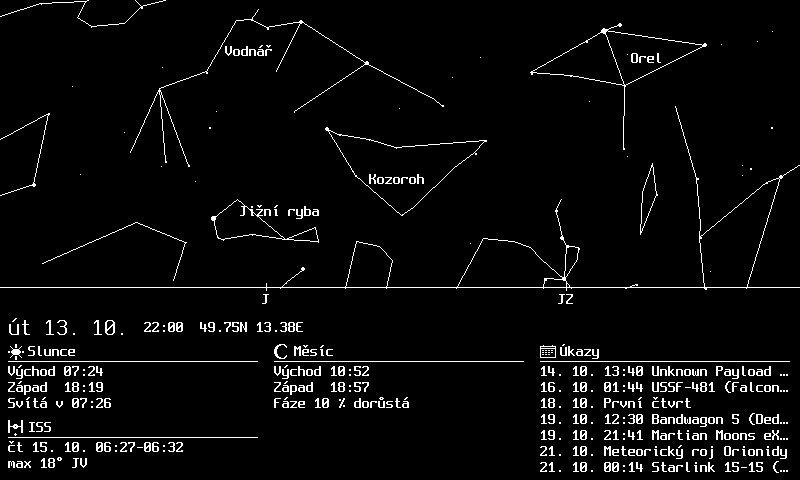
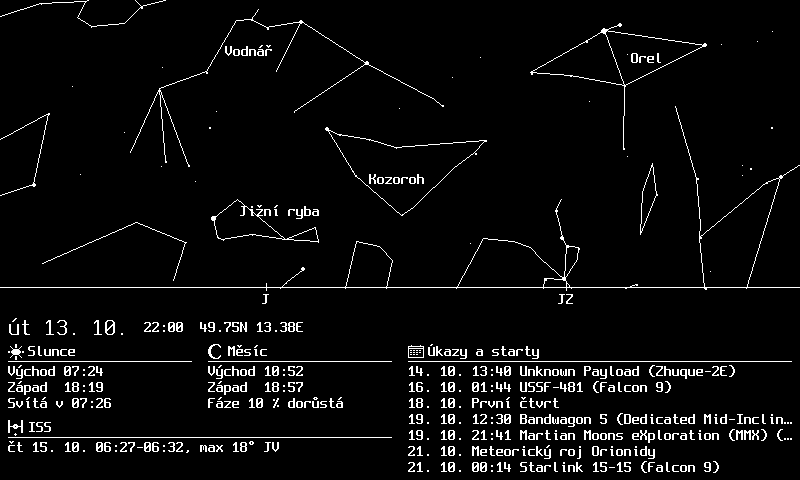
feat(layout): landscape horizon columns 25/25/50, ISS spans two columns, contextual events title

diff --git a/sky/layout.py b/sky/layout.py
@@ -23,7 +23,7 @@ LINE_HEADER_H = 24 + MARGIN                  # jednořádková hlavička (datum 
 def column_groups(n: int) -> tuple[tuple[str, ...], ...]:
     """Které sekce patří do kterého sloupce (sdílí layout i render)."""
     if n >= 3:
-        return (("sun", "iss"), ("moon",), ("events",))
+        return (("sun",), ("moon",), ("events",))      # ISS jde do pásu přes 1. + 2. sloupec
     if n == 2:
         return (("sun", "moon"), ("iss", "events"))
     return (ALL_SECTIONS,)
@@ -34,6 +34,10 @@ def _needed_body_h(n: int, sections: tuple[str, ...]) -> int:
     best = 0
     for group in column_groups(n):
         best = max(best, sum(SECTION_H[s] + SECTION_GAP for s in group if s in sections))
+    if n >= 3 and "iss" in sections:
+        # pás ISS pod Sluncem/Měsícem: nejvyšší z obou sloupců + ISS
+        top = max((SECTION_H[s] + SECTION_GAP for s in ("sun", "moon") if s in sections), default=0)
+        best = max(best, top + SECTION_H["iss"] + SECTION_GAP)
     return best
 
 
@@ -61,9 +65,10 @@ class Zones:
     columns: tuple[Rect, ...]
     header_big: bool
     header_line: bool = False      # datum, čas a poloha na jednom řádku (horizon na šířku)
+    span: Rect | None = None       # pás přes 1. + 2. sloupec pod Sluncem a Měsícem (ISS), jen u 3 sloupců
 
 
-def _split(info: Rect, header_big: bool, header_line: bool = False) -> tuple[Rect, tuple[Rect, ...]]:
+def _split(info: Rect, header_big: bool, header_line: bool = False) -> tuple[Rect, tuple[Rect, ...], Rect | None]:
     hh = LINE_HEADER_H if header_line else (BIG_HEADER_H if header_big else SMALL_HEADER_H)
     header = Rect(info.x, info.y, info.w, hh)
     body = Rect(info.x, header.bottom, info.w, max(0, info.bottom - header.bottom))
@@ -74,9 +79,17 @@ def _split(info: Rect, header_big: bool, header_line: bool = False) -> tuple[Rec
         n = 2
     else:
         n = 1
+    if n == 3:
+        # 25 / 25 / 50 %: úkazy potřebují nejvíc místa; ISS v pásu pod prvními dvěma
+        q = body.w // 4
+        cols = (Rect(body.x, body.y, q, body.h), Rect(body.x + q, body.y, q, body.h),
+                Rect(body.x + 2 * q, body.y, body.w - 2 * q, body.h))
+        top = max(SECTION_H["sun"], SECTION_H["moon"]) + SECTION_GAP
+        span = Rect(body.x, body.y + top, 2 * q, max(0, body.h - top))
+        return header, cols, span
     cw = body.w // n
     cols = tuple(Rect(body.x + i * cw, body.y, cw, body.h) for i in range(n))
-    return header, cols
+    return header, cols, None
 
 
 def _zones(m: Rect, info: Rect | None, line: bool = False) -> Zones:
@@ -85,8 +98,8 @@ def _zones(m: Rect, info: Rect | None, line: bool = False) -> Zones:
     # Velká hlavička jen tehdy, když pod ní zbude místo na Slunce + Měsíc v jednom
     # sloupci (2× titulek + 3 řádky, mezera): jinak by vypadl řádek Fáze.
     big = not line and info.h >= 128 and info.w >= 224 and info.h - BIG_HEADER_H >= 9 * U
-    header, cols = _split(info, big, line)
-    return Zones(m, info, header, cols, big, line)
+    header, cols, span = _split(info, big, line)
+    return Zones(m, info, header, cols, big, line, span)
 
 
 def compute(w: int, h: int, view: str, sections: tuple[str, ...] = ALL_SECTIONS,

diff --git a/sky/render.py b/sky/render.py
@@ -381,25 +381,41 @@ def _sec_moon(c: Cursor, model: SkyModel) -> None:
     c.gap()
 
 
+def iss_lines(lang: str, tz, info: IssInfo, max_chars: int) -> list[str]:
+    """Řádky sekce ISS; přelet na jeden řádek, když se do šířky vejde."""
+    if not info.available:
+        return [tr(lang, "unavailable")]
+    if info.next_pass is None:
+        return [tr(lang, "no_pass")]
+    p = info.next_pass
+    s = p.start.astimezone(tz)
+    when = f"{fmt_date(s.date(), lang)} {s.strftime('%H:%M')}–{p.end.astimezone(tz).strftime('%H:%M')}"
+    peak = f"{tr(lang, 'max')} {round(p.max_alt)}° {compass(p.max_az, lang)}"
+    joined = f"{when}, {peak}"
+    return [joined] if len(joined) <= max_chars else [when, peak]
+
+
 def _sec_iss(c: Cursor, model: SkyModel, info: IssInfo) -> None:
     L, tz = c.ctx.lang, model.tz
     if not c.title("iss", tr(L, "iss")):
         return
-    if not info.available:
-        c.line(tr(L, "unavailable"))
-    elif info.next_pass is None:
-        c.line(tr(L, "no_pass"))
-    else:
-        p = info.next_pass
-        s = p.start.astimezone(tz)
-        c.line(f"{fmt_date(s.date(), L)} {s.strftime('%H:%M')}–{p.end.astimezone(tz).strftime('%H:%M')}")
-        c.line(f"{tr(L, 'max')} {round(p.max_alt)}° {compass(p.max_az, L)}")
+    for line in iss_lines(L, tz, info, c.w // c.ctx.small.width):
+        c.line(line)
     c.gap()
 
 
-def _sec_events(c: Cursor, model: SkyModel, events: list[Event] | None) -> None:
+def events_title(lang: str, events: bool, rockets: bool) -> str:
+    """Nadpis sekce podle toho, co obsahuje: Úkazy / Úkazy a starty / Starty."""
+    if events and rockets:
+        return tr(lang, "events_launches")
+    if rockets:
+        return tr(lang, "launches")
+    return tr(lang, "events")
+
+
+def _sec_events(c: Cursor, model: SkyModel, events: list[Event] | None, title: str) -> None:
     L = c.ctx.lang
-    if not c.title("cal", tr(L, "events")):
+    if not c.title("cal", title):
         return
     if events is None:
         c.line(tr(L, "unavailable"))
@@ -425,9 +441,14 @@ def _draw_info(ctx: Ctx, z: Zones, params: Params, model: SkyModel, iss_info: Is
     if params.iss:
         sections.append(("iss", lambda c: _sec_iss(c, model, iss_info)))
     if params.events or params.rockets:
-        sections.append(("events", lambda c: _sec_events(c, model, events)))
-    for col, group in zip(z.columns, layout.column_groups(len(z.columns))):
+        title = events_title(params.lang, params.events, params.rockets)
+        sections.append(("events", lambda c: _sec_events(c, model, events, title)))
+    groups = layout.column_groups(len(z.columns))
+    for col, group in zip(z.columns, groups):
         cur = Cursor(ctx, col)
         for name, fn in sections:
             if name in group:
                 fn(cur)
+    if z.span is not None and params.iss:
+        # ISS v pásu přes 1. + 2. sloupec: řádek přeletu se vejde na jednu řádku
+        _sec_iss(Cursor(ctx, z.span), model, iss_info)

diff --git a/tests/test_layout.py b/tests/test_layout.py
@@ -24,8 +24,12 @@ def test_horizon_landscape_800x480():
     # jednořádková hlavička a tři sloupce: Slunce+ISS | Měsíc | úkazy (min. 6 řádků)
     assert z.header_line and not z.header_big and z.header.h == LINE_HEADER_H
     assert len(z.columns) == 3
-    assert z.columns[0].h >= 2 * 20 + 5 * 16 + 2 * 8      # Slunce + ISS
+    assert [c.w for c in z.columns] == [200, 200, 400]    # 25 / 25 / 50 %
+    assert z.columns[2].x == 400
     assert z.columns[2].h >= 20 + 6 * 16                  # úkazy: titulek + 6 řádků
+    # ISS v pásu přes oba úzké sloupce pod Sluncem a Měsícem
+    assert z.span is not None and z.span.x == 0 and z.span.w == 400
+    assert z.span.y >= z.columns[0].y + 20 + 3 * 16 and z.span.h >= 20 + 2 * 16
     assert z.map.h > 288 and z.map.h + z.info.h == 480
 
 
@@ -79,7 +83,7 @@ def test_column_groups():
     from sky.layout import column_groups
     assert column_groups(1) == (("sun", "moon", "iss", "events"),)
     assert column_groups(2) == (("sun", "moon"), ("iss", "events"))
-    assert column_groups(3) == (("sun", "iss"), ("moon",), ("events",))
+    assert column_groups(3) == (("sun",), ("moon",), ("events",))   # ISS jde do pásu přes 1.+2. sloupec
 
 
 def test_horizon_map_capped_at_90_degrees():
@@ -91,3 +95,8 @@ def test_horizon_map_capped_at_90_degrees():
     # při fov 180 se strop uplatní i ve výchozím rozložení
     z = compute(480, 800, "horizon", fov=180)
     assert z.map.h <= 480 * 90 // 180 + HORIZON_BAR
+
+
+def test_span_only_with_three_columns():
+    assert compute(480, 800, "horizon").span is None
+    assert compute(800, 480, "sky").span is None

diff --git a/tests/test_render.py b/tests/test_render.py
@@ -183,3 +183,23 @@ def test_saturn_has_ring():
         return sum(1 for dx in range(-14, 15) if img.getpixel((int(x) + dx, int(y))) != 1 and dx < 5)  # vlevo od popisku
 
     assert width_of("saturn barycenter") > width_of("mars")
+
+
+def test_events_title_is_contextual():
+    from sky.render import events_title
+    assert events_title("cs", True, False) == "Úkazy"
+    assert events_title("cs", True, True) == "Úkazy a starty"
+    assert events_title("cs", False, True) == "Starty"
+    assert events_title("en", True, True) == "Events and launches"
+    assert events_title("en", False, True) == "Launches"
+
+
+def test_iss_lines_join_when_wide():
+    from sky.render import iss_lines
+    tz = ZoneInfo("Europe/Prague")
+    wide = iss_lines("cs", tz, ISS, 50)
+    assert wide == ["út 13. 10. 22:00–22:00, max 61° J"]
+    narrow = iss_lines("cs", tz, ISS, 25)
+    assert narrow == ["út 13. 10. 22:00–22:00", "max 61° J"]
+    assert iss_lines("cs", tz, IssInfo(True, 1.0, 2.0, None), 50) == ["žádný do 48 h"]
+    assert iss_lines("en", tz, IssInfo(False, None, None, None), 50) == ["unavailable"]

diff --git a/sky/geo.py b/sky/geo.py
@@ -16,12 +16,14 @@ TEXTS = {
            "rise": "Východ", "set": "Západ", "night_from": "Noc od", "dawn_at": "Svítá v",
            "phase": "Fáze", "waxing": "dorůstá", "waning": "couvá",
            "no_pass": "žádný do 48 h", "unavailable": "nedostupné", "max": "max",
-           "none": "nic do 60 dnů", "data_from": "Zdroj: jantichy.cz/ukazy"},
+           "none": "nic do 60 dnů", "data_from": "Zdroj: jantichy.cz/ukazy",
+           "events_launches": "Úkazy a starty", "launches": "Starty"},
     "en": {"sun": "Sun", "moon": "Moon", "iss": "ISS", "events": "Events",
            "rise": "Rise", "set": "Set", "night_from": "Night from", "dawn_at": "Dawn at",
            "phase": "Phase", "waxing": "waxing", "waning": "waning",
            "no_pass": "none in 48 h", "unavailable": "unavailable", "max": "max",
-           "none": "none in 60 days", "data_from": "Source: jantichy.cz/ukazy"},
+           "none": "none in 60 days", "data_from": "Source: jantichy.cz/ukazy",
+           "events_launches": "Events and launches", "launches": "Launches"},
 }
 
 
